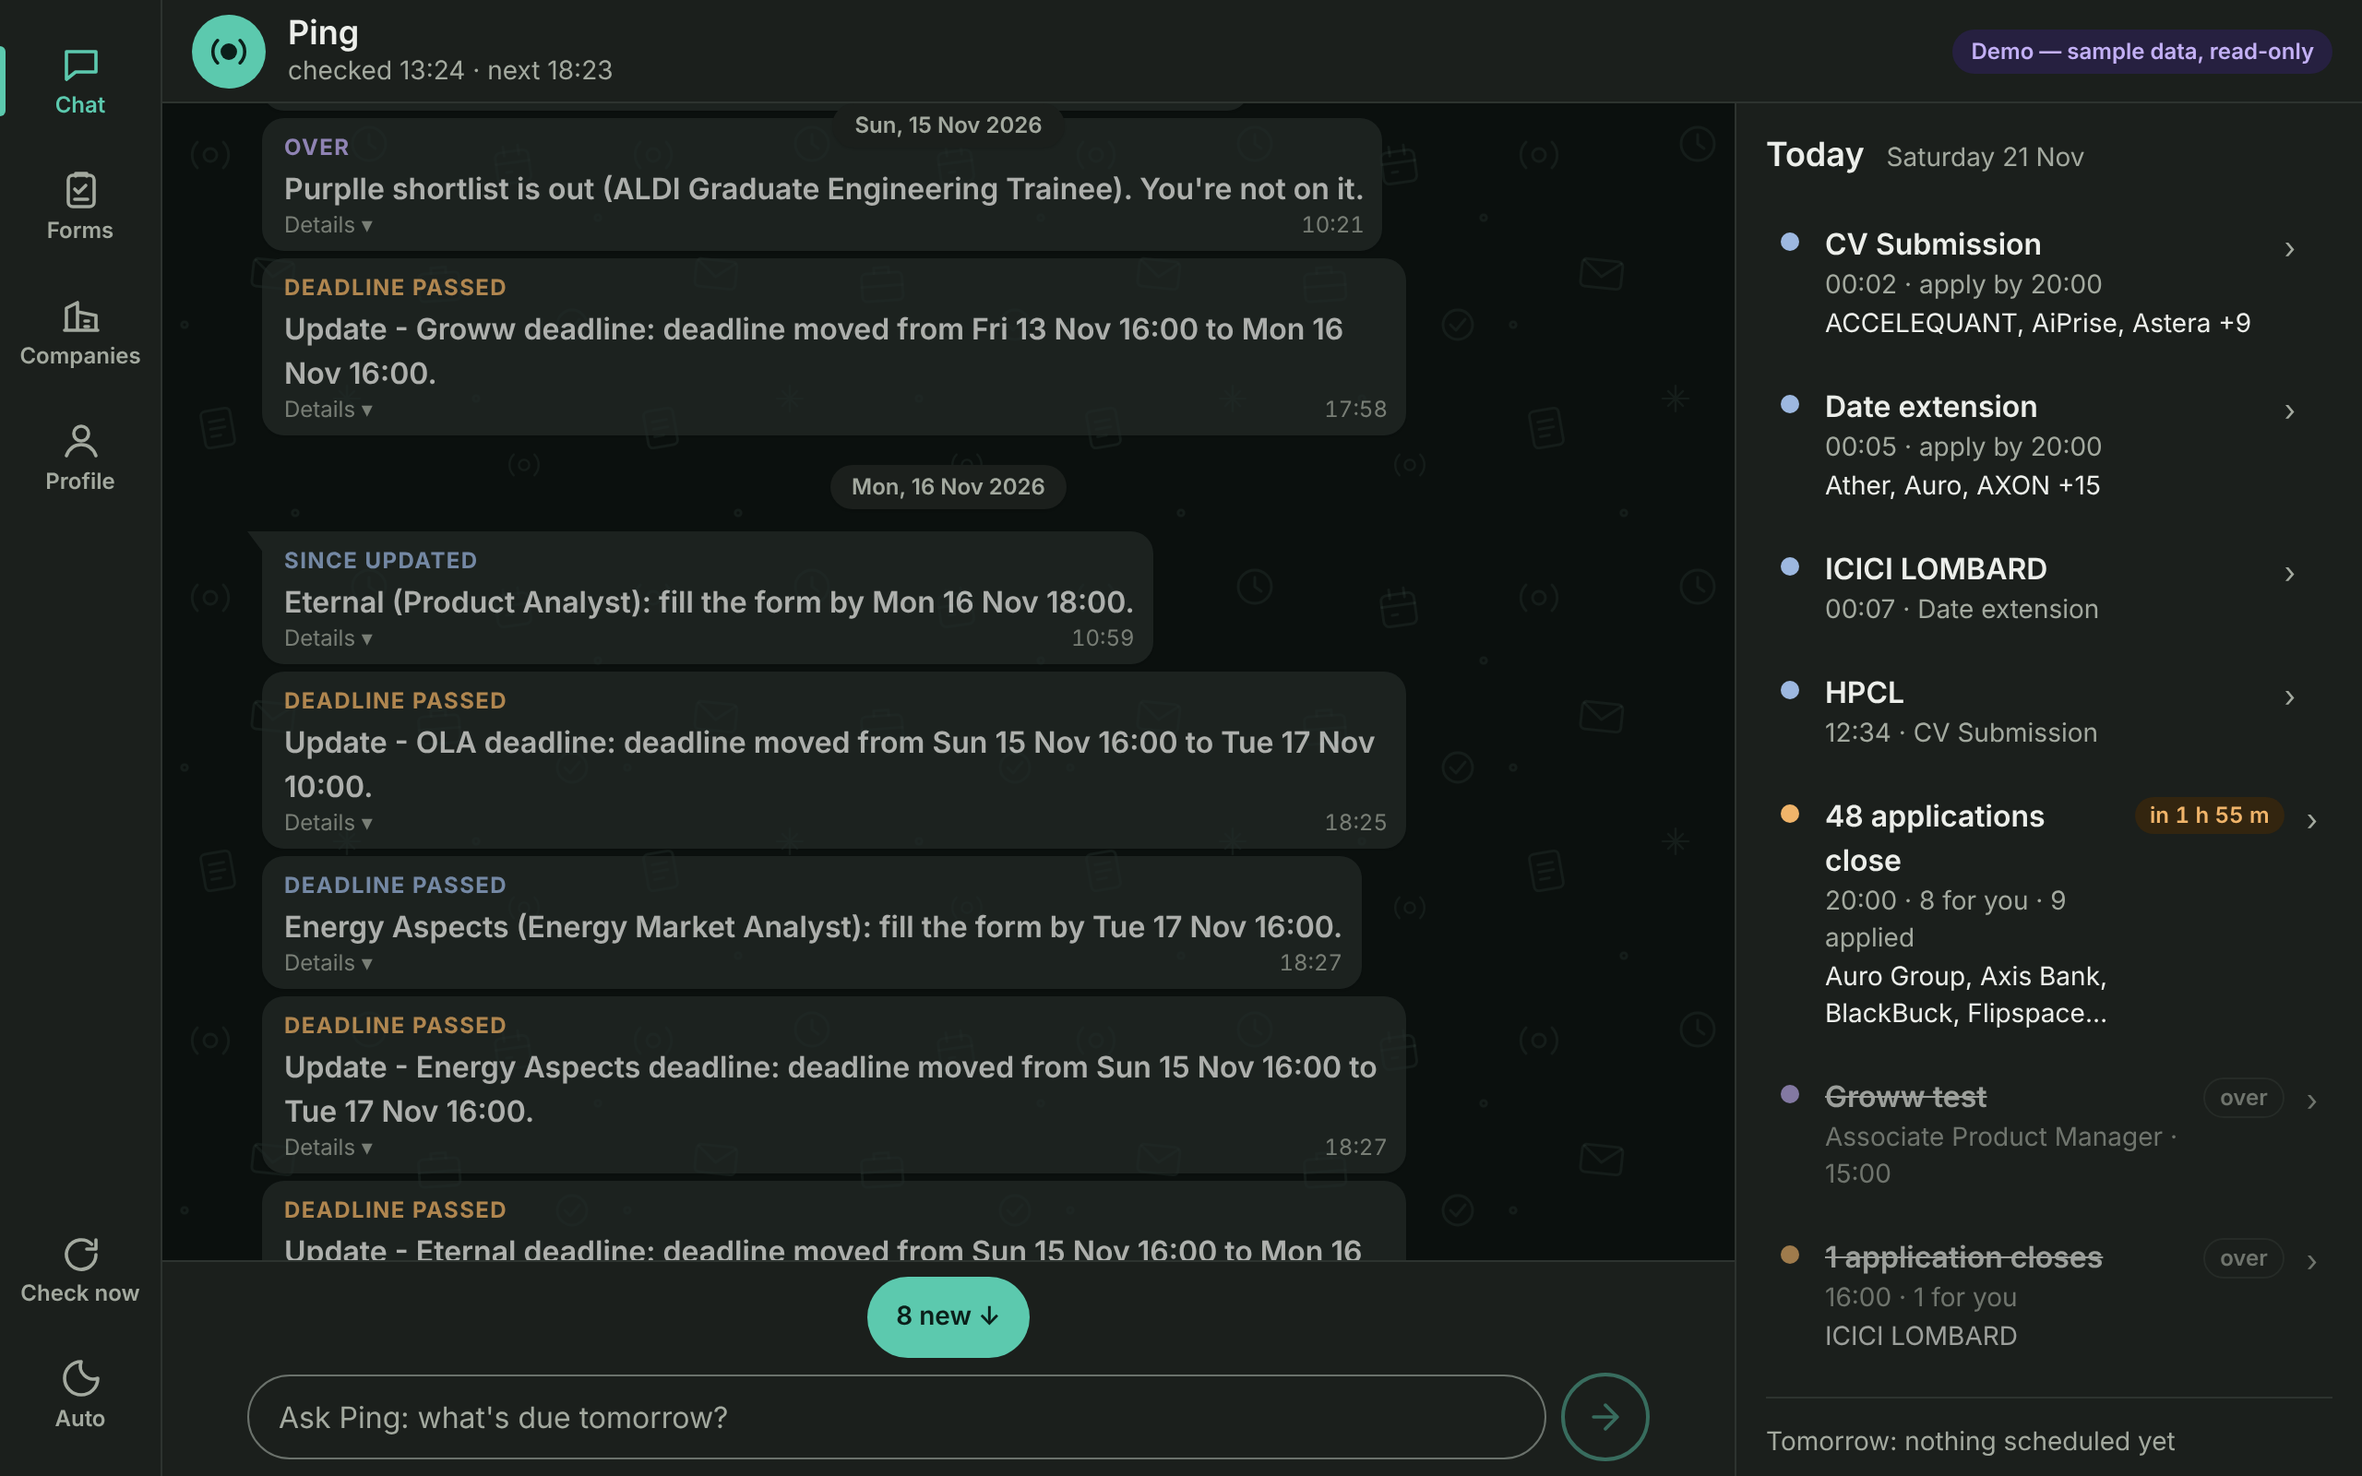
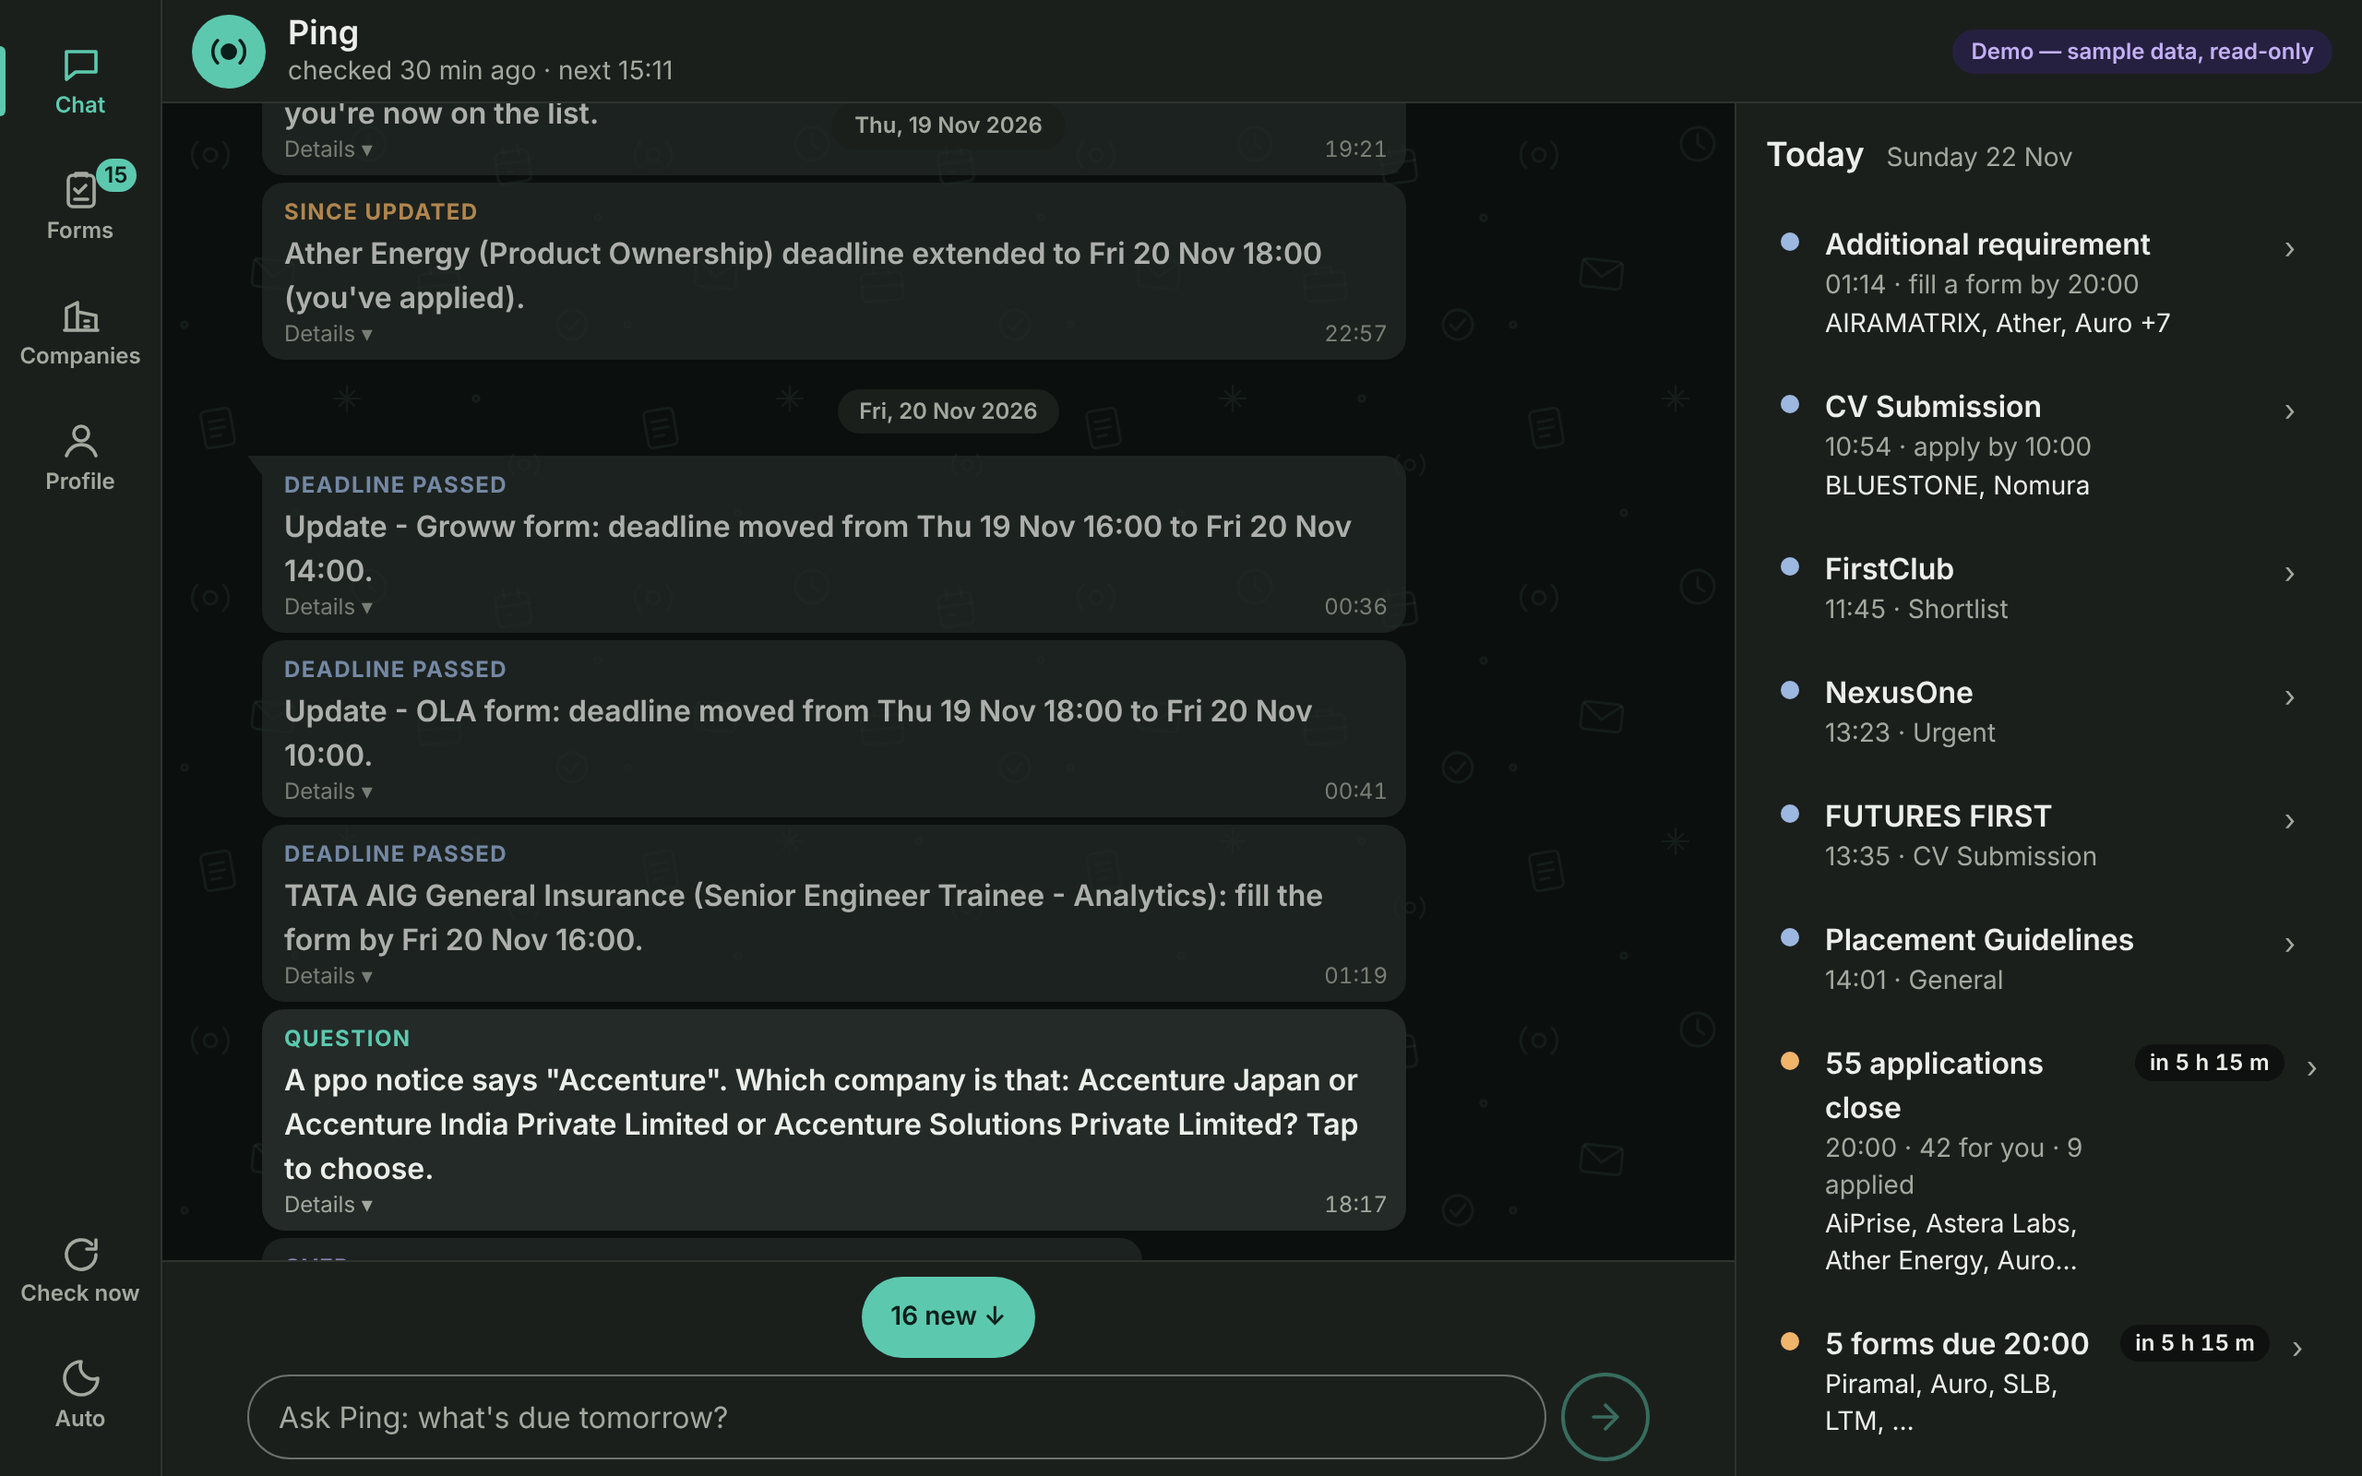
P0 report material: decisions log, multi-turn eval results (14/14 live, model on and off), Latest pill screenshots
Claude-Session: https://claude.ai/code/session_0195wKaGeVRX1M8NJaTy4Lo5

diff --git a/evals/ask_ping/MULTITURN.md b/evals/ask_ping/MULTITURN.md
@@ -1,22 +1,22 @@
 # Multi-turn and re-check evals (page)
 
-Run 2026-11-22T09:09:36.480Z on https://vin1764.github.io/ping-dashboard/, demo session. 14/14 passed (7 conversations, model on and off).
+Run 2026-11-22T09:18:43.701Z on https://vin1764.github.io/ping-dashboard/, demo session. 14/14 passed (7 conversations, model on and off).
 
 A re-check in the demo answers from the snapshot (the demo can't log in to the ERP) and says so; for the owner it is a live, read-only fetch of that company's notices and files.
 
 | case | model | result | turns |
 |---|---|---|---|
-| M1 | on | pass | "check firstclub" → page: No open deadline for FirstClub in the ERP data (last checked Sat 21 Nov 18:04). FirstClub <br>"check again" → recheck: Demo: Ping can't log in to the ERP here, so this is the snapshot's reading of FirstClub (1 |
-| M2 | on | pass | "check firstclub" → page: No open deadline for FirstClub in the ERP data (last checked Sat 21 Nov 18:04). FirstClub <br>"check erp for latest updates, don't answer on old data" → recheck: Demo: Ping can't log in to the ERP here, so this is the snapshot's reading of FirstClub (1 |
-| M3 | on | pass | "firstclub shortlist?" → page: No FirstClub shortlist or result that names you or leaves you out in the data.<br>"I got a call, I think I'm there" → recheck: Demo: Ping can't log in to the ERP here, so this is the snapshot's reading of FirstClub (1 |
-| M4 | on | pass | "what's due tonight" → page: Close tonight 20:00 (in 1h 55m), Sat 21 Nov — 8 for you, 9 applied: For you: Auro Group — <br>"and groww?" → page: No open deadline for Groww in the ERP data (last checked Sat 21 Nov 18:04). Groww (Associa |
-| M5 | on | pass | "groww ctc" → page: Groww (Associate Product Manager): CTC 32,00,000 INR: Bonds: No; Base Salary: 20,00,000; B<br>"ok what's due tonight" → page: Close tonight 20:00 (in 1h 55m), Sat 21 Nov — 8 for you, 9 applied: For you: Auro Group —  |
-| R1 | on | pass | "am I on the firstclub shortlist" → page: No FirstClub shortlist or result that names you or leaves you out in the data.<br>"are you sure? that's wrong" → recheck: Demo: Ping can't log in to the ERP here, so this is the snapshot's reading of FirstClub (1 |
+| M1 | on | pass | "check firstclub" → server: No open deadline for FirstClub in the ERP data (last checked Sun 22 Nov 14:44). FirstClub <br>"check again" → recheck: Demo: Ping can't log in to the ERP here, so this is the snapshot's reading of FirstClub (1 |
+| M2 | on | pass | "check firstclub" → page: No open deadline for FirstClub in the ERP data (last checked Sun 22 Nov 14:44). FirstClub <br>"check erp for latest updates, don't answer on old data" → recheck: Demo: Ping can't log in to the ERP here, so this is the snapshot's reading of FirstClub (1 |
+| M3 | on | pass | "firstclub shortlist?" → page: Yes, you're on the latest FirstClub list: You're on the FirstClub shortlist (Product Manag<br>"I got a call, I think I'm there" → recheck: Demo: Ping can't log in to the ERP here, so this is the snapshot's reading of FirstClub (1 |
+| M4 | on | pass | "what's due tonight" → page: Close tonight 20:00 (in 5h 15m), Sun 22 Nov — 11 for you, 9 applied: For you: Auro Group —<br>"and groww?" → page: No open deadline for Groww in the ERP data (last checked Sun 22 Nov 14:44). Groww (Associa |
+| M5 | on | pass | "groww ctc" → page: Groww (Associate Product Manager): CTC 32,00,000 INR: Bonds: No; Base Salary: 20,00,000; B<br>"ok what's due tonight" → page: Close tonight 20:00 (in 5h 14m), Sun 22 Nov — 11 for you, 9 applied: For you: Auro Group — |
+| R1 | on | pass | "am I on the firstclub shortlist" → page: Yes, you're on the latest FirstClub list: You're on the FirstClub shortlist (Product Manag<br>"are you sure? that's wrong" → recheck: Demo: Ping can't log in to the ERP here, so this is the snapshot's reading of FirstClub (1 |
 | R2 | on | pass | "groww ctc" → page: Groww (Associate Product Manager): CTC 32,00,000 INR: Bonds: No; Base Salary: 20,00,000; B<br>"recheck firstclub" → recheck: Demo: Ping can't log in to the ERP here, so this is the snapshot's reading of FirstClub (1 |
-| M1 | off | pass | "check firstclub" → page: No open deadline for FirstClub in the ERP data (last checked Sat 21 Nov 18:04). FirstClub <br>"check again" → recheck: Demo: Ping can't log in to the ERP here, so this is the snapshot's reading of FirstClub (1 |
-| M2 | off | pass | "check firstclub" → page: No open deadline for FirstClub in the ERP data (last checked Sat 21 Nov 18:04). FirstClub <br>"check erp for latest updates, don't answer on old data" → recheck: Demo: Ping can't log in to the ERP here, so this is the snapshot's reading of FirstClub (1 |
-| M3 | off | pass | "firstclub shortlist?" → page: No FirstClub shortlist or result that names you or leaves you out in the data.<br>"I got a call, I think I'm there" → recheck: Demo: Ping can't log in to the ERP here, so this is the snapshot's reading of FirstClub (1 |
-| M4 | off | pass | "what's due tonight" → page: Close tonight 20:00 (in 1h 55m), Sat 21 Nov — 8 for you, 9 applied: For you: Auro Group — <br>"and groww?" → page: No open deadline for Groww in the ERP data (last checked Sat 21 Nov 18:04). Groww (Associa |
-| M5 | off | pass | "groww ctc" → page: Groww (Associate Product Manager): CTC 32,00,000 INR: Bonds: No; Base Salary: 20,00,000; B<br>"ok what's due tonight" → page: Close tonight 20:00 (in 1h 55m), Sat 21 Nov — 8 for you, 9 applied: For you: Auro Group —  |
-| R1 | off | pass | "am I on the firstclub shortlist" → page: No FirstClub shortlist or result that names you or leaves you out in the data.<br>"are you sure? that's wrong" → recheck: Demo: Ping can't log in to the ERP here, so this is the snapshot's reading of FirstClub (1 |
-| R2 | off | pass | "groww ctc" → page: Groww (Associate Product Manager): CTC 32,00,000 INR: Bonds: No; Base Salary: 20,00,000; B<br>"recheck firstclub" → recheck: Demo: Ping can't log in to the ERP here, so this is the snapshot's reading of FirstClub (1 |
+| M1 | off | pass | "check firstclub" → server: No open deadline for FirstClub in the ERP data (last checked Sun 22 Nov 14:44). FirstClub <br>"check again" → recheck: Demo: Ping can't log in to the ERP here, so this is the snapshot's reading of FirstClub (1 |
+| M2 | off | pass | "check firstclub" → server: No open deadline for FirstClub in the ERP data (last checked Sun 22 Nov 14:44). FirstClub <br>"check erp for latest updates, don't answer on old data" → recheck: Demo: Ping can't log in to the ERP here, so this is the snapshot's reading of FirstClub (1 |
+| M3 | off | pass | "firstclub shortlist?" → server: Yes, you're on the latest FirstClub list: You're on the FirstClub shortlist (Product Manag<br>"I got a call, I think I'm there" → recheck: Demo: Ping can't log in to the ERP here, so this is the snapshot's reading of FirstClub (1 |
+| M4 | off | pass | "what's due tonight" → server: Close tonight 20:00 (in 5h 15m), Sun 22 Nov — 0 for you, 9 applied: For you: none Applied:<br>"and groww?" → server: No open deadline for Groww in the ERP data (last checked Sun 22 Nov 14:44). Groww (Associa |
+| M5 | off | pass | "groww ctc" → server: Groww (Associate Product Manager): CTC 32,00,000 INR: Bonds: No; Base Salary: 20,00,000; B<br>"ok what's due tonight" → server: Close tonight 20:00 (in 5h 15m), Sun 22 Nov — 0 for you, 9 applied: For you: none Applied: |
+| R1 | off | pass | "am I on the firstclub shortlist" → server: Yes, you're on the latest FirstClub list: You're on the FirstClub shortlist (Product Manag<br>"are you sure? that's wrong" → recheck: Demo: Ping can't log in to the ERP here, so this is the snapshot's reading of FirstClub (1 |
+| R2 | off | pass | "groww ctc" → server: Groww (Associate Product Manager): CTC 32,00,000 INR: Bonds: No; Base Salary: 20,00,000; B<br>"recheck firstclub" → recheck: Demo: Ping can't log in to the ERP here, so this is the snapshot's reading of FirstClub (1 |

diff --git a/docs/DECISIONS.md b/docs/DECISIONS.md
@@ -92,3 +92,24 @@ Judgement calls made while working unattended, one line each.
 - 2026-11-22 07:15 IST: The demo's first load is split: the roles' JD text, pay details and JD summaries (two thirds of the data) are in demo-details.json, fetched right after the chat is on screen. The role sheet and in-page answers wait for it (well under a second on 4G), so no answer is ever made without them. Lighthouse mobile on the demo: 85-89 -> 91-96.
 - 2026-11-22 07:24 IST: The public source copy also scrubs what only the history (or a quoted prompt) holds: names on the anonymiser's denylist (in BUILD_PROMPTS.md, where the owner's prompts are quoted word for word, and in early versions of the anonymiser and its tests, written before the list was hashed) become "[name]", and ten-digit numbers that aren't in today's files (each of today's was looked at: test fixtures, an exit code, digit maps) become 9000000000. The values are found on the runner, kept in memory and never printed; the publish is refused if any survives in any blob. This private repository keeps BUILD_PROMPTS.md verbatim. Tested here end to end: 7 names and 6 numbers replaced, 0 left in 870 blobs, and the rewritten copy passes its own test suite (214 passed).
 - 2026-11-22 13:10 IST: "Signed out every time I open the installed app." Diagnosis before any change: the client was created with supabase-js's defaults (already persistSession, autoRefreshToken, localStorage); nothing on load signed out or cleared storage; manifest start_url `/ping-dashboard/?source=app#chat` and scope `/ping-dashboard/` are on the page's own origin, so the installed app, the tab and the service worker share one storage (on Android; an iPhone Home Screen app has its own, separate from Safari). Server side, sessions never expire (time-box 0, inactivity 0). The auth log showed the cause: twice on 22 Nov (06:27 and 11:37 IST) a refresh was refused with "Invalid Refresh Token: Refresh Token Not Found", followed within seconds by a password sign-in, and no sign-out anywhere. Refresh tokens are single-use, so the device was holding one the server had already replaced: a refresh whose new token never reached storage (an installed app closed or suspended right after refreshing: iPhone writes localStorage to disk lazily), or an old copy. Fixes: the session is written to IndexedDB too (each write committed) and the newer copy is read; no refresh starts while the app is in the background, one runs when it's back; on opening, the session is restored and refreshed before anything is shown, and the sign-in form appears only when nothing is stored or the server refuses the token (a server that can't be reached gives "trying again", never the form). Also found: every sign-out was global (signing out on one device signed out all of them) and a View demo session shared the owner's storage key; now sign-outs are for that device only and the demo has its own key and client. Refresh-token rotation stays on (it's what makes an old stolen token useless); if "Not Found" ever shows up again in Admin > auth-sessions, turning rotation off is the remaining lever, at that cost.
+
+## 22 Nov: FirstClub "You're not on it" (P0)
+
+- **Root cause.** `Runner.profile()` read the profile table without a filter and took the first row. Since build-demo
+  (21 Nov 18:04 IST) the table also holds the demo's made-up profile (id 2, is_sample). Postgres returned it first, so
+  runs searched list files for the demo roll, used the demo's targets for For you (AiPrise, Astera Labs) and its CGPA.
+  The FirstClub file (notice 1817, 2 pages, 117 rolls, text layer) was read in full; the student's roll is in it.
+  Fixed: the run reads id 1 only; every list is also searched for the ERP login id.
+- **Re-scan.** All 61 list files of the last 14 days read again from the ERP: one verdict changed (FirstClub, not
+  found → on the list). The feed was rebuilt with the right profile.
+- **Never assert absence.** "Not found" only for a file read in full that lists rolls, worded "I couldn't find your
+  roll number … Please check the list yourself"; scanned, partly read or names-only files are "couldn't read reliably".
+  A test fails if any phrasing of "you're not on it" appears in code.
+- **13:41 skipped.** The 12:58 backup cron stood down but counted as a run, so the 13:41 kick saw "43 min ago". The
+  guard now takes the last real run from the runs table.
+- **Re-check on demand.** A separate `rechecks` table (not `runs`), so a one-company re-check never delays the hourly
+  run; one per company per 5 minutes (a repeat gets the same re-check). The demo answers from its snapshot and says so.
+- **Topic.** Re-check and dispute phrases resolve to the last 3 questions' company before any intent matching; a named
+  company wins; a clear new question starts a new topic.
+- **Installed app on an old build.** The shell is cache-first; a new deploy now takes over at once (reload on
+  controllerchange, not while typing), so fixes like the docked Latest pill reach the installed app.
